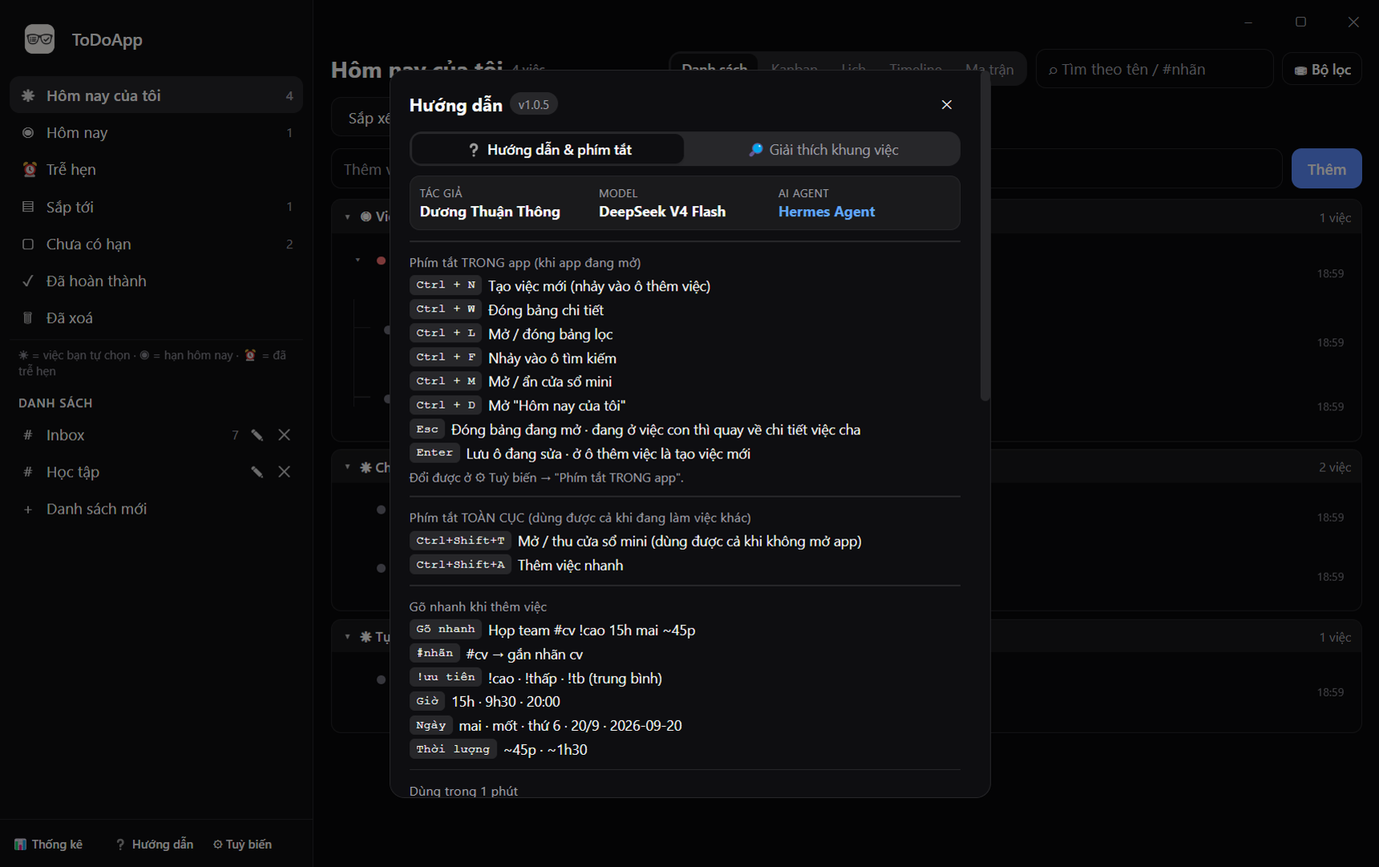
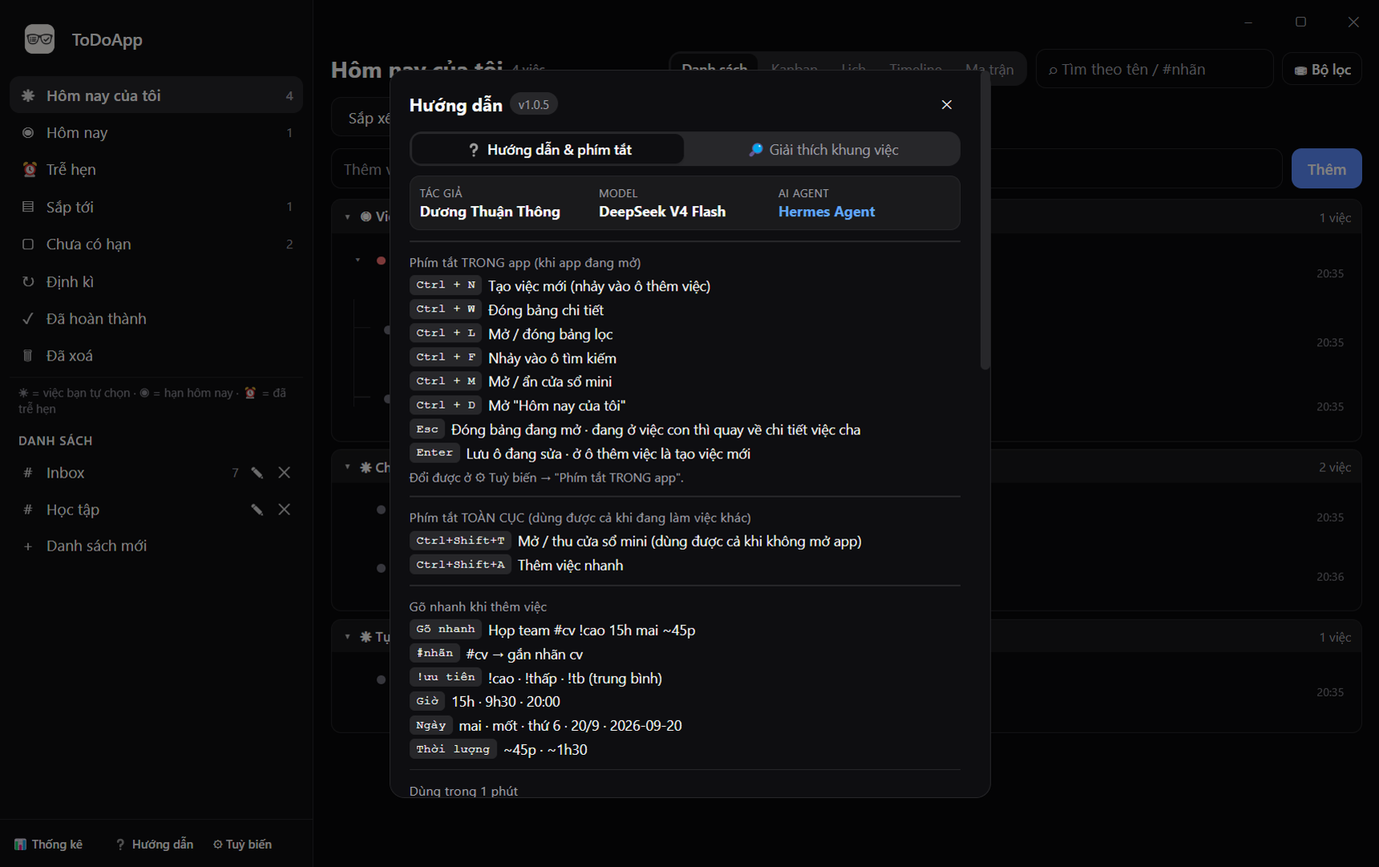
Them khung "Dinh ki" (kho quan ly viec lap) + lam smoke bot gion
1) Khung "Dinh ki" (↻ o sidebar) = KHO quan ly cac viec LAP, moi viec dung 1 dong, gom nhom theo
   lich (hang ngay / hang tuan T2 T4 / hang thang ngay 15). Bam vao dong de doi lich bat cu luc nao.
   - Khong tick xong tai day (khung nay de quan ly/custom, viec lap phai chin theo ngay cua no):
     o tick duoc thay bang o trong net dut giu cho cho thang hang.
   - Khong can them mo hinh "template" rieng: moi chuoi lap LUON co dung 1 ban chua xong (ban vua
     sinh la ky ke tiep), nen loc `!done && repeat` la ra dung 1 dong/viec.
   - "Chua co han" gio chi con viec MOT LAN (khong lay `repeat`) de khong lan voi viec lam hang ngay.

2) Lam smoke bot gion (3 loi probe that da gap, khong phai loi app):
   - `shoot()`: timeout phai race o phia MAIN. Ban cu dat `setTimeout` BEN TRONG renderer nen khi
     renderer ban thi no cung khong chay -> `await executeJavaScript` treo vinh vien, ca luot smoke
     dung im (SMOKE HANG). Nhung phai giu nguyen nhip 2 khung hinh + 50ms lang: bo no di thi
     capturePage tra khung cu tro lai (MODE-SHOTS do).
   - Anh chup lai phai doi CAU TRUC DOM (dong/mo lai modal, doi che do roi quay lai), khong chi
     `render()`: render() ve lai cung cay DOM nen compositor co the bo qua, anh van la khung cu.
   - Probe dong bo mini<->main: dua mini ve man danh sach truoc + thu lai 3 luot + log chan doan
     (coO/view/openId/collapsed) thay vi bao "dong bo hong" khi chinh probe de mini o man chi tiet.
[…]

diff --git a/lib/smoke.js b/lib/smoke.js
@@ -307,25 +307,42 @@ module.exports = function smoke() {
 
       // ĐỒNG BỘ mini -> app chính: thêm việc ở mini, app chính phải tự hiện (và ngược lại: đổi ở app chính, mini phải theo)
       const mark = 'SYNC-' + Math.random().toString(36).slice(2, 7);
-      await miniWin.webContents.executeJavaScript(`(() => {
-        const i = document.querySelector('.mini-add input');
-        i.value = ${JSON.stringify(mark)};
-        i.dispatchEvent(new KeyboardEvent('keydown', { key: 'Enter', bubbles: true }));
-      })()`);
-      await waitFor(mainWin, `db.tasks.some((t) => t.title.includes(${JSON.stringify(mark)}))`);
-      const syncMain = await mainWin.webContents.executeJavaScript(`db.tasks.some((t) => t.title.includes(${JSON.stringify(mark)}))`);
-      const syncId = await mainWin.webContents.executeJavaScript(`(db.tasks.find((t) => t.title.includes(${JSON.stringify(mark)})) || {}).id`);
+      // Đưa mini về màn DANH SÁCH trước (probe trước có thể để nó ở màn chi tiết -> không có ô thêm việc,
+      // và khi đó "không thấy việc" là do probe tự gây ra chứ không phải đồng bộ hỏng).
+      await miniWin.webContents.executeJavaScript(`ui.openId = null; ui.miniPick = false; ui.view = 'myday'; ui.fold = {}; render()`);
+      await waitFor(miniWin, `!!document.querySelector('.mini-add input')`);
+      // Gõ + Enter có thể rơi vào lúc mini vừa vẽ lại -> thử lại vài lượt trước khi kết luận hỏng.
+      const syncExpr = `db.tasks.some((t) => t.title.includes(${JSON.stringify(mark)}))`;
+      let syncMain = false;
+      let diag = null;
+      for (let attempt = 1; attempt <= 3 && !syncMain; attempt++) {
+        const typed = await miniWin.webContents.executeJavaScript(`(() => {
+          const i = document.querySelector('.mini-add input');
+          window.__diag = { coO: !!i, view: ui.view, openId: ui.openId, collapsed: !!ui.miniCollapsed, apiAdd: typeof API.addTask };
+          if (!i) return false;
+          i.value = ${JSON.stringify(mark)};
+          i.dispatchEvent(new KeyboardEvent('keydown', { key: 'Enter', bubbles: true }));
+          return true;
+        })()`);
+        diag = await miniWin.webContents.executeJavaScript('window.__diag || null');
+        if (!typed) { await new Promise((r) => setTimeout(r, 300)); continue; }
+        syncMain = await waitFor(mainWin, syncExpr, 1500);
+        if (!syncMain) await new Promise((r) => setTimeout(r, 300));
+      }
+      const syncId = syncMain ? await mainWin.webContents.executeJavaScript(`(db.tasks.find((t) => t.title.includes(${JSON.stringify(mark)})) || {}).id`) : null;
       const miniRename = mark + '-B';
       // syncId có thể rỗng nếu việc chưa kịp sang main -> ĐỪNG để nó nổ "Cannot set properties of
       // undefined" (làm hỏng cả lượt chạy); báo đúng probe nào hỏng rồi bỏ qua phần còn lại.
       if (!syncId) {
-        console.log(`SYNC mini->main=${syncMain} main->mini=SKIPPED (không thấy việc vừa thêm để đổi tên)`);
-        errs.push('probe: thêm việc ở mini mà app chính không cập nhật (đồng bộ 1 chiều hỏng)');
+        console.log(`SYNC mini->main=${syncMain} main->mini=SKIPPED (không thấy việc vừa thêm để đổi tên) diag=${JSON.stringify(diag)}`);
+        errs.push('probe: thêm việc ở mini mà app chính không cập nhật (đồng bộ 1 chiều hỏng) (' + JSON.stringify(diag) + ')');
       } else {
         await mainWin.webContents.executeJavaScript(`(() => { const t = db.tasks.find((x) => x.id === ${JSON.stringify(syncId)}); t.title = ${JSON.stringify(miniRename)}; commit(); render(); })()`);
       }
-      await new Promise((r) => setTimeout(r, 900));
-      const syncMini = await mainWin.webContents.executeJavaScript(`true`) && await miniWin.webContents.executeJavaScript(`[...document.querySelectorAll('.mini-list .row')].some((x) => x.dataset.id === ${JSON.stringify(syncId)}) || [...document.querySelectorAll('.mini .detail, .mini-list .row span')].some((e) => (e.textContent || '').includes(${JSON.stringify(miniRename)}))`);
+      // Chờ mini vẽ lại thay vì ngủ cứng 900ms: mini đang xem danh sách nào cũng phải thấy việc đã đổi
+      // tên (tên cũ biến mất khỏi mọi khung), nên chờ là điều kiện thật chứ không phải đoán thời gian.
+      const miniHas = `[...document.querySelectorAll('.mini-list .row')].some((x) => x.dataset.id === ${JSON.stringify(syncId)}) || [...document.querySelectorAll('.mini .detail, .mini-list .row span')].some((e) => (e.textContent || '').includes(${JSON.stringify(miniRename)}))`;
+      const syncMini = syncId ? await waitFor(miniWin, miniHas, 3000) : false;
       console.log(`SYNC mini->main=${syncMain} main->mini=${syncMini}`);
       if (!syncMain) errs.push('probe: thêm việc ở mini mà app chính không cập nhật (đồng bộ 1 chiều hỏng)');
       if (!syncMini) errs.push('probe: đổi ở app chính mà mini không cập nhật (đồng bộ chiều còn lại hỏng)');
@@ -648,10 +665,20 @@ module.exports = function smoke() {
           sau = db.lists[0] && db.lists[0].name;
           hien = [...document.querySelectorAll('.sidebar .nav')].some((n) => n.textContent.includes('SEC ten moi'));
         }
+        // "Định kì" = kho quản lý việc lặp: mỗi việc 1 dòng, KHÔNG có nút tick, gom nhóm theo lịch
+        ui.view = 'recur'; ui.fold = {}; render(); await wait(300);
+        const rec = {
+          rows: [...document.querySelectorAll('.body .row .row-title')].map((x) => x.textContent),
+          groups: [...document.querySelectorAll('.body .group')].map((g) => g.querySelector('summary span').textContent),
+          nutTick: document.querySelectorAll('.body .row .cb:not(.recur-slot)').length,
+          oTrong: document.querySelectorAll('.body .row .cb.recur-slot').length,
+        };
+        ui.view = 'nodate'; render(); await wait(250);
+        const nodate = [...document.querySelectorAll('.body .row .row-title')].map((x) => x.textContent);
         if (db.lists[0] && truoc) db.lists[0].name = truoc;
         db.tasks = db.tasks.filter((x) => !/^SEC /.test(x.title));
         commit(); ui.view = 'myday'; render(); await wait(200);
-        return { today, myday, navs, coO, truoc, sau, hien };
+        return { today, myday, navs, coO, truoc, sau, hien, rec, nodate };
       })()`);
       console.log('PLAN-TODAY ' + JSON.stringify(plan));
       if (!plan.today.some((x) => x.includes('SEC lap hom nay'))) errs.push('probe: việc LẶP rơi vào hôm nay không hiện ở "Hôm nay" (' + JSON.stringify(plan.today) + ')');
@@ -673,6 +700,16 @@ module.exports = function smoke() {
       }
       const hd = plan.navs.find((x) => x.name === 'Hôm nay');
       if (!hd || !hd.ct) errs.push('probe: mục "Hôm nay" mất số đếm (' + JSON.stringify(plan.navs) + ')');
+      // "Định kì" = kho quản lý việc lặp: có đủ các việc lặp, KHÔNG có nút tick ở khung này, và việc
+      // lặp KHÔNG còn nằm lẫn trong "Chưa có hạn".
+      for (const nm of ['SEC lap hom nay', 'SEC lap hang thang', 'SEC lap co han mai']) {
+        if (!plan.rec.rows.some((x) => x.includes(nm))) errs.push('probe: "' + nm + '" không nằm trong khung "Định kì" (' + JSON.stringify(plan.rec.rows) + ')');
+      }
+      if (plan.rec.nutTick) errs.push('probe: khung "Định kì" vẫn còn ' + plan.rec.nutTick + ' nút tick (phải là kho quản lý, không tick tại đây)');
+      if (!plan.rec.oTrong) errs.push('probe: khung "Định kì" thiếu ô giữ chỗ cho thẳng hàng');
+      if (!plan.rec.groups.length || !plan.rec.groups.every((g) => g.startsWith('↻ '))) errs.push('probe: khung "Định kì" không gom nhóm theo lịch (' + JSON.stringify(plan.rec.groups) + ')');
+      if (plan.nodate.some((x) => /SEC lap/.test(x))) errs.push('probe: việc LẶP vẫn nằm trong "Chưa có hạn" (' + JSON.stringify(plan.nodate) + ')');
+
       // đổi tên danh sách
       if (!plan.coO) errs.push('probe: bấm ✎ không mở được ô đổi tên danh sách');
       else if (plan.sau !== 'SEC ten moi') errs.push('probe: đổi tên danh sách không lưu (' + plan.truoc + ' -> ' + plan.sau + ')');
@@ -976,11 +1013,18 @@ module.exports = function smoke() {
       // smoke đứng im (đã bị đúng như vậy). Phải race với timeout để luôn có đường thoát.
       const shoot = async (name) => {
         const w = name.startsWith('mini') ? miniWin : mainWin;
+        // Phải race ở phía MAIN, không phải race bên trong renderer: nếu renderer đang bận thì cái
+        // setTimeout({400}) nằm TRONG đó cũng không bao giờ cháy, và `await executeJavaScript` treo
+        // vĩnh viễn -> cả lượt smoke đứng im (watchdog chỉ báo "có treo", không nói treo ở đâu).
         try {
-          await w.webContents.executeJavaScript(`Promise.race([
-            new Promise((r) => requestAnimationFrame(() => requestAnimationFrame(() => setTimeout(r, 30)))),
-            new Promise((r) => setTimeout(r, 400)),
-          ])`);
+          await Promise.race([
+            // Giữ nguyên nhịp cũ (2 khung hình + 50ms lắng) vì chính nhịp đó làm capturePage hết trả khung
+            // cũ. Chỉ ĐỔI CHỖ race: timeout phải nằm phía MAIN — nếu renderer đang bận thì setTimeout
+            // bên trong nó cũng không cháy, `await executeJavaScript` treo vĩnh viễn và cả lượt smoke
+            // đứng im (watchdog chỉ báo "có treo", không nói treo ở đâu).
+            w.webContents.executeJavaScript(`new Promise((r) => requestAnimationFrame(() => requestAnimationFrame(() => setTimeout(r, 50))))`),
+            new Promise((r) => setTimeout(() => r(false), 900)),
+          ]);
           w.webContents.invalidate();
         } catch { /* cửa sổ đã hủy thì bỏ qua */ }
         // capturePage() cũng phải có timeout: nó treo vĩnh viễn khi cửa sổ bị che/mất kết nối vẽ ->
@@ -1005,11 +1049,16 @@ module.exports = function smoke() {
         if (!(await waitFor(mainWin, `!!document.querySelector(${JSON.stringify(sel)})`))) errs.push('probe: chế độ ' + name + ' không render ra ' + sel);
         // capturePage() hay trả KHUNG CŨ khi máy bận -> chụp lại vài lần rồi mới kết luận
         // "các chế độ giống nhau" (đã gặp: 2/3 lượt báo trùng trong khi ảnh thật khác nhau).
-        for (let lan = 1; lan <= 3; lan++) {
+        // Lượt chụp lại phải ĐỔI CẤU TRÚC DOM (sang chế độ khác rồi quay lại), không chỉ `render()`:
+        // render() vẽ lại cùng cây DOM nên compositor có thể bỏ qua, ảnh vẫn là khung cũ.
+        for (let lan = 1; lan <= 4; lan++) {
           await new Promise((r) => setTimeout(r, 350 * lan));
           shots[name] = md5(await shoot(name));
           if (!Object.entries(shots).some(([n2, v]) => n2 !== name && v === shots[name])) return;
-          await mainWin.webContents.executeJavaScript('render()');   // ép vẽ lại khung rồi thử lại
+          await clickTab(i === 1 ? 2 : 1);
+          await new Promise((r) => setTimeout(r, 250));
+          await clickTab(i);
+          if (!(await waitFor(mainWin, `!!document.querySelector(${JSON.stringify(sel)})`))) errs.push('probe: chế độ ' + name + ' không render ra ' + sel);
         }
       };
       await modeShot(1, 'kanban', '.kcol');
@@ -1245,17 +1294,23 @@ module.exports = function smoke() {
       if (!help.escCloses) errs.push('probe: Esc không đóng được hộp thoại Hướng dẫn');
       await mainWin.webContents.executeJavaScript(`ui.modal = 'help'; ui.helpTab = 'guide'; render()`);
       await new Promise((r) => setTimeout(r, 350));
-      const hHelp = md5(await shoot('help'));
-      await mainWin.webContents.executeJavaScript(`ui.helpTab = 'frame'; render()`);
+      const bHelp = await shoot('help');
+      const hHelp = md5(bHelp);
       // capturePage() hay trả KHUNG CŨ -> ảnh tab 2 y hệt ảnh tab 1 dù DOM đã đổi. Chụp lại tới khi khác.
-      let hFrame = hHelp;
-      for (let lan = 1; lan <= 3 && hFrame === hHelp; lan++) {
-        await new Promise((r) => setTimeout(r, 350 * lan));
-        hFrame = md5(await shoot('help-frame'));
-        if (hFrame === hHelp) await mainWin.webContents.executeJavaScript('render()');
+      // Chỉ `render()` là chưa đủ (DOM giống nhau về cấu trúc -> compositor không buộc vẽ lại): đóng modal
+      // rồi mở lại để đổi hẳn cây DOM, và chờ tăng dần. Kèm log kích thước byte để phân biệt được
+      // "khung cũ" (2 ảnh y hệt từng byte) với "ảnh giống thật".
+      let hFrame = hHelp, bFrame = bHelp, dom2 = false;
+      for (let lan = 1; lan <= 4 && hFrame === hHelp; lan++) {
+        await mainWin.webContents.executeJavaScript(`ui.modal = null; render()`);
+        await new Promise((r) => setTimeout(r, 200));
+        dom2 = await mainWin.webContents.executeJavaScript(`(() => { ui.modal = 'help'; ui.helpTab = 'frame'; render(); return !document.querySelector('#helpModal .author') && document.querySelectorAll('#helpModal .helpitem').length > 5; })()`);
+        await new Promise((r) => setTimeout(r, 400 + 250 * lan));
+        bFrame = await shoot('help-frame');
+        hFrame = md5(bFrame);
       }
-      console.log('HELP-SHOTS ' + JSON.stringify({ tab2KhacTab1: hFrame !== hHelp }));
-      if (hFrame === hHelp) errs.push('probe: ảnh 2 tab Hướng dẫn y hệt nhau (tab 2 không vẽ ra hoặc capturePage trả khung cũ)');
+      console.log('HELP-SHOTS ' + JSON.stringify({ tab2KhacTab1: hFrame !== hHelp, dom2, bytes: [bHelp.length, bFrame.length] }));
+      if (hFrame === hHelp) errs.push('probe: ảnh 2 tab Hướng dẫn y hệt nhau (tab 2 không vẽ ra hoặc capturePage trả khung cũ) ' + JSON.stringify({ dom2, bytes: [bHelp.length, bFrame.length] }));
       await mainWin.webContents.executeJavaScript(`ui.helpTab = 'guide'; render()`);
       // ảnh minh hoạ 2 mục mới: thùng rác + log đã hoàn thành gom theo ngày
       await mainWin.webContents.executeJavaScript(`(() => { ui.modal = null; const t = db.tasks[db.tasks.length - 1]; if (t) doDelete(t); ui.view = 'trash'; ui.openId = null; render(); })()`);

diff --git a/renderer/settings.js b/renderer/settings.js
@@ -193,9 +193,11 @@ const GUIDE = [
   ['Mũi tên ▾ cạnh việc cha', 'thu gọn / mở rộng việc con'],
   ['Việc cha – con', 'việc con thừa hưởng hạn của cha; tự đặt hạn riêng thì sau đó cha đổi hạn cũng không ghi đè'],
   ['Việc lặp lại', 'mở chi tiết → "Lặp lại" (mỗi ngày / tuần / tháng / năm). Hằng tuần thì bấm các THỨ (T2 T4…), hằng tháng thì gõ NGÀY ("15, cuối" — cuối tự biết 28/29/30/31), kèm GIỜ riêng cho mỗi kỳ. Tick xong thì lần kế tiếp tự sinh vào đúng ngày, không hiện lại ngay — và mỗi kỳ nằm ở ĐÚNG NGÀY của nó (kỳ của mai không chen vào "Hôm nay"). Bỏ tick thì thu hồi luôn kỳ vừa sinh, không để lại bản thừa'],
+  ['Khung "Định kì" (↻)', 'KHO quản lý mọi việc lặp — mỗi việc đúng 1 dòng, gom nhóm theo lịch (hằng ngày / hằng tuần T2 T4…). Bấm vào dòng để sửa lại lịch bất cứ lúc nào. Ở khung này KHÔNG có nút tick: cứ để việc tự rơi vào "Hôm nay" đúng ngày rồi tick ở đó, app tự sinh kỳ kế tiếp'],
   ['Xoá việc', 'chuyển vào "Đã xoá" chứ không mất — khôi phục được bất cứ lúc nào; việc nằm trong đó quá 30 ngày sẽ bị dọn hẳn'],
   ['Đổi tên danh sách', 'rê chuột vào dòng danh sách ở sidebar → bấm ✎ để sửa tên ngay tại chỗ (Enter = lưu, Esc = bỏ); ✕ là xoá danh sách'],
   ['"Sắp tới" & "Đã hoàn thành"', 'gom thành thư mục theo từng ngày, bấm vào tên ngày để gập/mở'],
+  ['"Định kì"', 'kho các việc LẶP: mỗi việc 1 dòng, gom theo lịch. Bấm vào dòng để đổi thứ/ngày/giờ. Không tick ở đây — việc tự rơi vào "Hôm nay" đúng ngày để tick'],
   ['Cửa sổ mini', 'bấm tên cạnh logo để đổi danh sách đang xem; kéo mép cửa sổ để thu thành thanh mũi tên ở cạnh màn hình; rê chuột vào thanh đó để mở tạm'],
 ];
 const PRIVACY = 'Dữ liệu nằm hoàn toàn trên máy bạn (todoapp.json trong thư mục dữ liệu của app), không gửi đi đâu cả. App tự lưu dự phòng .bak và tự phục hồi nếu file chính hỏng.';

diff --git a/lib/tasks.test.js b/lib/tasks.test.js
@@ -276,4 +276,16 @@ T.toggleDone(rl, 'r1', true, rnow);   // tick lại
 assert.strictEqual(KEP(rl).length, 1, 'bỏ tick rồi tick lại vẫn chỉ 1 kỳ (không nhân bản)');
 assert.strictEqual(rl.length, 2, 'cả vòng chỉ còn 1 việc gốc + 1 kỳ kế tiếp');
 
+/* Khung "Định kì": việc LẶP có khung riêng để quản lý/custom lịch, không lẫn với việc lỡ quên hạn. */
+assert.deepStrictEqual(T.view([{ id: 'a', title: 'A', done: false, parentId: null, listId: 'inbox', due: null, repeat: null },
+  { id: 'b', title: 'B', done: false, parentId: null, listId: 'inbox', due: null, repeat: { type: 'weekly', n: 1, days: [1, 4] } },
+  { id: 'c', title: 'C', done: false, parentId: null, listId: 'inbox', due: null, repeat: { type: 'daily', n: 1 } },
+  { id: 'd', title: 'D', done: true, parentId: null, listId: 'inbox', due: null, repeat: { type: 'daily', n: 1 } }], 'nodate', TODAY).map((x) => x.id), ['a'],
+  'việc lặp KHÔNG được nằm trong "Chưa có hạn" nữa');
+assert.deepStrictEqual(T.view([{ id: 'a', title: 'A', done: false, parentId: null, listId: 'inbox', due: null, repeat: null },
+  { id: 'b', title: 'B', done: false, parentId: null, listId: 'inbox', due: null, repeat: { type: 'weekly', n: 1, days: [1, 4] } },
+  { id: 'c', title: 'C', done: false, parentId: null, listId: 'inbox', due: null, repeat: { type: 'daily', n: 1 } },
+  { id: 'd', title: 'D', done: true, parentId: null, listId: 'inbox', due: null, repeat: { type: 'daily', n: 1 } }], 'recur', TODAY).map((x) => x.id), ['b', 'c'],
+  '"Định kì" phải gom mọi việc lặp CHƯA XONG (bản đang chạy), bỏ bản đã xong và việc một lần');
+
 console.log('OK - all task-logic checks passed');

diff --git a/lib/tasks.js b/lib/tasks.js
@@ -285,7 +285,13 @@ function view(tasks, name, now = new Date()) {
     // "Trễ hẹn" = gom mọi việc đã quá hạn chót (chưa xong), cũ nhất lên trước cho dễ xử lý.
     case 'late': return top.filter((t) => overdue(t, now)).sort((a, b) => new Date(a.due) - new Date(b.due));
     case 'upcoming': return top.filter((t) => !t.done && t.due && new Date(t.due) > now && !isToday(t.due, now));
-    case 'nodate': return top.filter((t) => !t.done && !t.due);
+    // "Chưa có hạn" chỉ còn việc MỘT LẦN chưa đặt hạn. Việc ĐỊNH KÌ (có `repeat`) đã có khung riêng
+    // bên dưới — để lẫn vào đây thì khó phân biệt việc lỡ quên đặt hạn với việc cố ý làm hằng ngày.
+    case 'nodate': return top.filter((t) => !t.done && !t.due && !t.repeat);
+    // "Định kì" = KHO quản lý các việc lặp. Vì mỗi chuỗi lặp luôn có ĐÚNG MỘT bản chưa xong (bản vừa
+    // sinh ra là kỳ kế tiếp), lọc `!done && repeat` cho ra đúng 1 dòng cho mỗi việc định kì — không
+    // cần thêm mô hình "template" riêng. Bấm vào dòng để sửa lịch (thứ/ngày/giờ) bất cứ lúc nào.
+    case 'recur': return top.filter((t) => !t.done && t.repeat);
     case 'completed': return tasks.filter((t) => t.done).sort((a, b) => String(b.doneAt).localeCompare(String(a.doneAt)));
     default: return top.filter((t) => t.listId === name);
   }

diff --git a/renderer/row.js b/renderer/row.js
@@ -80,7 +80,11 @@ function row(t, { sub = false, last = false, fold = 0 } = {}) {
       onclick: (e) => { e.stopPropagation(); if (fold) foldKids(t.id); },
     }, fold ? (shut ? '▸' : '▾') : '') : null,
     h('div', { class: 'pdot p' + (t.priority || 0), title: 'Ưu tiên: ' + PRIO[t.priority || 0] }),
-    h('button', { class: 'cb' + (t.done ? ' on' : ''), title: 'Hoàn thành', onclick: (e) => { e.stopPropagation(); toggleTask(t); askParent(t); } }, '✓'),
+    // Khung "Định kì" là KHO quản lý: không tick xong ở đây (việc lặp phải chín theo ngày của nó).
+    // Vẫn giữ 1 ô trống cùng kích thước để các dòng thẳng hàng với các khung khác.
+    ui.view === 'recur'
+      ? h('span', { class: 'cb recur-slot', title: 'Việc định kì — bấm vào dòng để xem/sửa lịch. Tick xong ở "Hôm nay" khi tới ngày' })
+      : h('button', { class: 'cb' + (t.done ? ' on' : ''), title: 'Hoàn thành', onclick: (e) => { e.stopPropagation(); toggleTask(t); askParent(t); } }, '✓'),
     h('div', { class: 'row-main', title: 'Bấm để mở chi tiết', onclick: () => { if (Date.now() - dragEnd < 350) return; ui.openId = t.id; render(); } },
       h('div', { class: 'row-title' }, t.title || '(không tiêu đề)'),
       h('div', { class: 'row-meta' },

diff --git a/renderer/shell.js b/renderer/shell.js
@@ -6,7 +6,8 @@ const NAV_HELP = {
   today: 'Việc có HẠN đúng hôm nay, cộng việc LẶP có lịch rơi vào hôm nay (việc quá hạn nằm ở "Trễ hẹn")',
   late: 'Việc đã quá hạn chót, gom theo TỪNG NGÀY đến hạn — thư mục ghi rõ trễ bao nhiêu ngày',
   upcoming: 'Việc có hạn trong những ngày tới, gom theo từng ngày',
-  nodate: 'Việc chưa đặt ngày đến hạn',
+  nodate: 'Việc MỘT LẦN chưa đặt ngày đến hạn (việc hằng ngày/tuần nằm ở "Định kì")',
+  recur: 'KHO các việc ĐỊNH KÌ — mỗi việc lặp nằm đúng 1 dòng. Bấm vào dòng để sửa lại lịch (kiểu lặp, thứ/ngày, giờ) bất cứ lúc nào. Việc ở đây KHÔNG tick xong tại đây: cứ để nó tự rơi vào "Hôm nay" đúng ngày rồi tick ở đó — app tự sinh kỳ kế tiếp',
   completed: 'Log việc đã xong, gom theo từng ngày',
   trash: 'Việc đã xoá — vẫn khôi phục được, chỉ mất khi bạn dọn sạch',
 };

diff --git a/renderer/views.js b/renderer/views.js
@@ -74,6 +74,12 @@ function listView() {
     return groupBy(tasks, (t) => T.myDaySection(t), (k) => MYDAY_LABEL[k] || k, rowFull,
       { openFirst: 'all', order: T.MYDAY_SECTIONS });
   }
+  // "Định kì" = kho quản lý việc lặp: gom theo LỊCH (hằng ngày / hằng tuần T2 T4 …) để nhìn 1 lượt
+  // là biết mình đang có những chuỗi lặp nào, và lôi ra sửa lịch cho nhanh.
+  if (ui.view === 'recur') {
+    if (!tasks.length) return h('div', { class: 'empty' }, 'Chưa có việc định kì nào. Mở một việc → "Lặp lại" để biến nó thành việc hằng ngày / hằng tuần / hằng tháng.');
+    return groupBy(tasks, (t) => repeatText(t.repeat), (k) => '↻ ' + k, rowFull, { openFirst: 'all' });
+  }
   if (!tasks.length) return h('div', { class: 'empty' }, 'Chưa có việc nào. Gõ vào ô thêm việc ở trên — thử: Họp team #cv !cao 15h mai ~45p');
   return h('div', null, ...tasks.map(rowFull).flat());
 }

diff --git a/renderer/app.css b/renderer/app.css
@@ -202,6 +202,9 @@ select.input option { background: hsl(var(--card)); color: hsl(var(--card-foregr
 }
 .cb:hover { border-color: hsl(var(--ring)); }
 .cb.on { background: hsl(var(--primary)); border-color: hsl(var(--primary)); color: hsl(var(--primary-foreground)); }
+/* Khung "Định kì" không tick xong tại chỗ: ô này chỉ giữ chỗ cho thẳng hàng, vẽ nét đứt cho biết
+   là chỗ trống chứ không phải nút bị vô hiệu. */
+.cb.recur-slot { border-style: dashed; border-color: hsl(var(--muted-foreground) / .45); cursor: default; }
 .pdot { width: .5rem; height: .5rem; border-radius: 99px; flex: none; margin-top: .45rem; }
 .pdot.p0 { background: hsl(var(--p0)); } .pdot.p1 { background: hsl(var(--p1)); }
 .pdot.p2 { background: hsl(var(--p2)); } .pdot.p3 { background: hsl(var(--p3)); }

diff --git a/renderer/core.js b/renderer/core.js
@@ -34,6 +34,7 @@ const VIEWS = [
   ['late', '⏰', 'Trễ hẹn'],
   ['upcoming', '▤', 'Sắp tới'],
   ['nodate', '▢', 'Chưa có hạn'],
+  ['recur', '↻', 'Định kì'],
   ['completed', '✓', 'Đã hoàn thành'],
   ['trash', '🗑', 'Đã xoá'],
 ];
